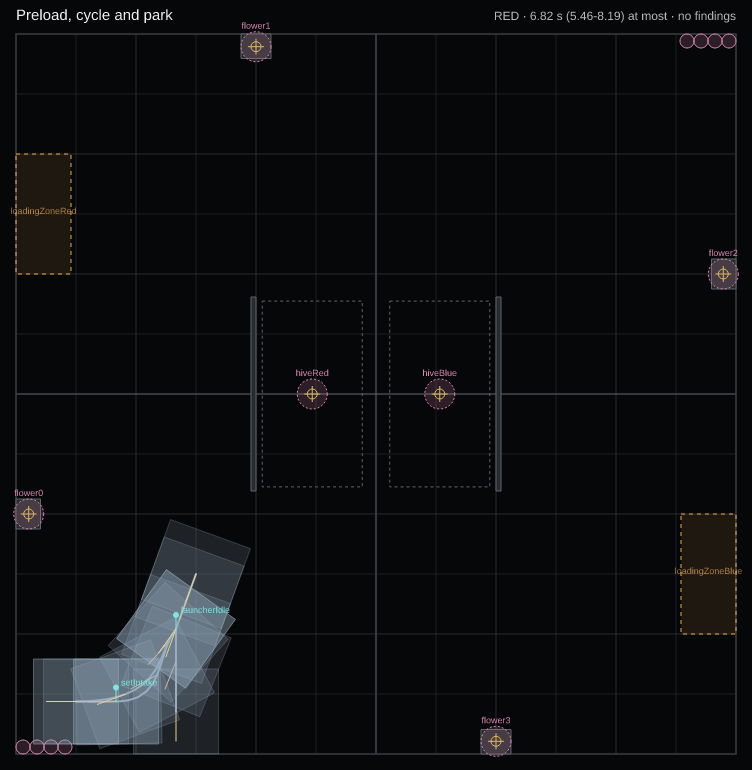
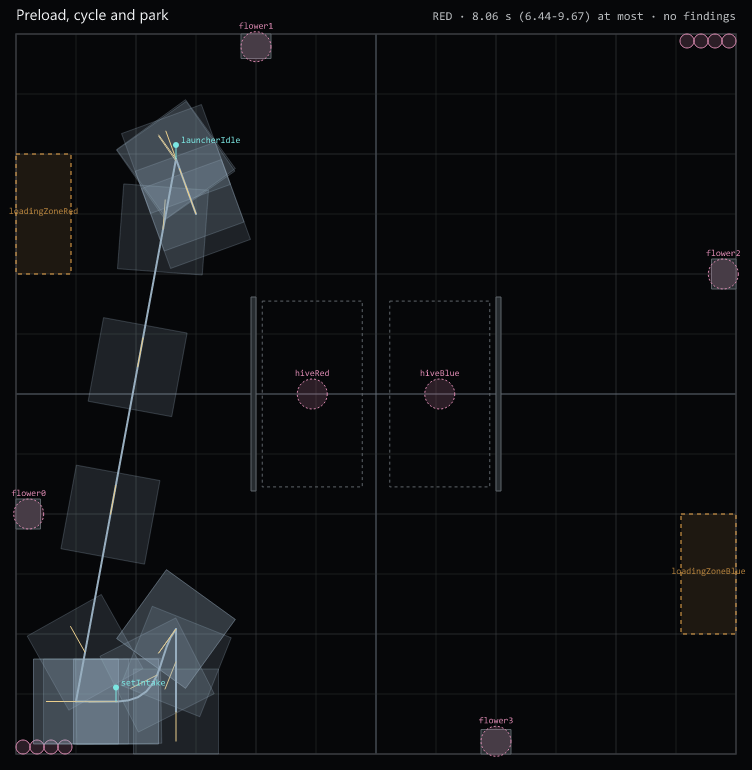
fix(auto): take the second shot from north of the tipped hive
The first shot tips the RED hive, so its up cell faces north and the old second shot from the south spot is no longer a legal approach (Zenith 0.1.2 LEGAL_APPROACH). The second shot now comes from shootNorth, the south shoot spot mirrored north of the hive, and the robot parks north of the hive. The auto is saved as formatVersion 4.

diff --git a/TeamCode/src/main/java/org/firstinspires/ftc/teamcode/zenith/PreloadCycleParkGenerated.java b/TeamCode/src/main/java/org/firstinspires/ftc/teamcode/zenith/PreloadCycleParkGenerated.java
@@ -1,4 +1,4 @@
-/** GENERATED by zenith from autos/preload-cycle-park.auto.json (sha 5347ea3d). Do not edit; edit the file. */
+/** GENERATED by zenith from autos/preload-cycle-park.auto.json (sha 5821cb0c). Do not edit; edit the file. */
 
 package org.firstinspires.ftc.teamcode.zenith;
 
@@ -23,7 +23,7 @@ import org.horizon36596.zenith.solverslib.RobotTimeout;
 import org.horizon36596.zenith.solverslib.WaitRobotTime;
 
 /**
- * GENERATED by zenith from autos/preload-cycle-park.auto.json (sha 5347ea3d). Do not edit; edit the file.
+ * GENERATED by zenith from autos/preload-cycle-park.auto.json (sha 5821cb0c). Do not edit; edit the file.
  *
  * Reads as the plan: one private method per step, called in file order from buildRoutine().
  * Abstract, and never referenced by an {@code @Autonomous} OpMode; {@code zenith deploy} writes the
@@ -44,7 +44,7 @@ public abstract class PreloadCycleParkGenerated extends AutoFromFile {
             step("toGarden", stepToGarden()),
             step("sweepGarden", stepSweepGarden()),
             step("stopIntake", stepStopIntake()),
-            step("backToShoot", stepBackToShoot()),
+            step("toShootNorth", stepToShootNorth()),
             step("shootCollected", stepShootCollected()),
             step("park", stepPark())
         );
@@ -55,7 +55,7 @@ public abstract class PreloadCycleParkGenerated extends AutoFromFile {
     }
 
     private Command stepToShoot() {
-        Path seg0 = Paths.line(Poses.toPedro(alliance(pose(-40.0, -63.5, -1.5708)) /* ref: start */), Poses.toPedro(alliance(pose(-40.0, -47.0, -2.1967)) /* ref: shoot */)).linear(headingRad(-1.5708), headingRad(-1.5708) + turnRad(-0.6259));
+        Path seg0 = Paths.line(Poses.toPedro(alliance(pose(-40.0, -63.5, -1.5708)) /* ref: start */), Poses.toPedro(alliance(pose(-40.0, -47.0, -2.1967)) /* ref: shootSouth */)).linear(headingRad(-1.5708), headingRad(-1.5708) + turnRad(-0.6259));
         Path path = seg0;
         Command drive = followPath(path, defaultSpeedFraction());
         return drive;
@@ -79,31 +79,34 @@ public abstract class PreloadCycleParkGenerated extends AutoFromFile {
 
     private Command stepSweepGarden() {
         // Starts from "current": built when the step starts, from where the robot is then.
-        return DeferredPath.of("sweepGarden", this, from -> stepSweepGardenFrom(from), NamedCommands.build("setIntake", Args.of("side", "FRONT", "state", "FORWARD"), this));
+        java.util.function.BooleanSupplier endCondition = NamedCommands.condition("hopperFull");
+        return DeferredPath.of("sweepGarden", this, from -> stepSweepGardenFrom(from, endCondition), NamedCommands.build("setIntake", Args.of("side", "FRONT", "state", "FORWARD"), this));
     }
 
-    private Command stepSweepGardenFrom(Pose2d from) {
+    private Command stepSweepGardenFrom(Pose2d from, java.util.function.BooleanSupplier endCondition) {
         Path seg0 = Paths.line(Poses.toPedro(from), Poses.toPedro(alliance(pose(-60.0, -61.5, 3.1416)) /* ref: intakeEnd */)).tangent();
         Path path = seg0;
         Command drive = followPath(path, 0.4);
-        drive = Parallel.race(drive, new WaitUntilCommand(NamedCommands.condition("hopperFull")));
         double[] segmentLengthsIn = { 8.0 };
         java.util.List<PathMarkers.Marker> markers = new java.util.ArrayList<PathMarkers.Marker>();
         markers.add(new PathMarkers.Marker(0.0, NamedCommands.build("setIntake", Args.of("side", "FRONT", "state", "FORWARD"), this)));
-        return PathMarkers.wrap(drive, segmentLengthsIn, markers, this);
+        drive = PathMarkers.wrap(drive, segmentLengthsIn, markers, this);
+        drive = Parallel.race(drive, new WaitUntilCommand(endCondition));
+        return drive;
     }
 
     private Command stepStopIntake() {
         return NamedCommands.build("setIntake", Args.of("side", "FRONT", "state", "STOP"), this);
     }
 
-    private Command stepBackToShoot() {
+    private Command stepToShootNorth() {
         // Starts from "current": built when the step starts, from where the robot is then.
-        return DeferredPath.of("backToShoot", this, from -> stepBackToShootFrom(from));
+        return DeferredPath.of("toShootNorth", this, from -> stepToShootNorthFrom(from));
     }
 
-    private Command stepBackToShootFrom(Pose2d from) {
-        Path seg0 = Paths.curve(Poses.toPedro(from), Poses.toPedro(alliance(pose(-42.0, -61.5, 0.0))), Poses.toPedro(alliance(pose(-44.0, -52.0, 0.0))), Poses.toPedro(alliance(pose(-40.0, -47.0, -2.1967)) /* ref: shoot */)).linear(headingRad(-3.1416), headingRad(-3.1416) + turnRad(0.9449));
+    private Command stepToShootNorthFrom(Pose2d from) {
+        // The lengths, marker distances and heading splits below are the planned path's; the runtime measures the live one.
+        Path seg0 = Paths.line(Poses.toPedro(from), Poses.toPedro(alliance(pose(-40.0, 47.0, 2.1967)) /* ref: shootNorth */)).heading(com.pedropathing.paths.interpolator.Interpolator.piecewise().until(0.15, (curve, t) -> headingRad(3.1416) + turnRad(-1.7531 * Math.min(1, Math.max(0, (t - 0.0) / 0.15)))).until(0.85, com.pedropathing.paths.interpolator.Interpolator.tangent).until(1.0, (curve, t) -> headingRad(1.3885) + turnRad(0.8082 * Math.min(1, Math.max(0, (t - 0.85) / 0.15)))));
         Path path = seg0;
         Command drive = followPath(path, defaultSpeedFraction());
         return drive;
@@ -119,7 +122,7 @@ public abstract class PreloadCycleParkGenerated extends AutoFromFile {
     }
 
     private Command stepParkFrom(Pose2d from) {
-        Path seg0 = Paths.line(Poses.toPedro(from), Poses.toPedro(alliance(pose(-36.0, -36.0, -1.9196)) /* ref: park */)).reverseTangent();
+        Path seg0 = Paths.line(Poses.toPedro(from), Poses.toPedro(alliance(pose(-36.0, 36.0, 1.9196)) /* ref: park */)).reverseTangent();
         Path path = seg0;
         Command drive = followPath(path, defaultSpeedFraction());
         double[] segmentLengthsIn = { 11.7047 };

diff --git a/TeamCode/src/test/java/org/firstinspires/ftc/teamcode/zenith/PreloadCycleParkAutoTest.java b/TeamCode/src/test/java/org/firstinspires/ftc/teamcode/zenith/PreloadCycleParkAutoTest.java
@@ -92,7 +92,7 @@ class PreloadCycleParkAutoTest {
 
         assertTrue(tookS < AUTO_PERIOD_S, "took " + tookS + " s");
         assertEquals(Arrays.asList("toShoot", "shootPreload", "toGarden", "sweepGarden", "stopIntake",
-                "backToShoot", "shootCollected", "park"), auto.startedSteps);
+                "toShootNorth", "shootCollected", "park"), auto.startedSteps);
         assertEquals(IntakeSubsystem.State.STOP, intake.frontState());
         assertFalse(launcher.ready(), "the park marker drops the launcher to idle");
     }

diff --git a/README.md b/README.md
@@ -18,9 +18,11 @@ turret. It follows paths with Pedro Pathing v3 and runs its commands on SolversL
 reason, and so are the constants in the Java. Measure your own robot before you copy any of them.
 
 The one auto, `preload-cycle-park`, starts against the audience wall in RED's half. It launches the
-four preloaded pollen, collects four more from the RED garden in one intake pass, launches those, and
-parks. Zenith estimates it at 6.8 s of the 30 s autonomous period. When it ends, the Driver Station
-selects the **Driver Control** TeleOp, which drives the same subsystems by hand.
+four preloaded pollen from south of the RED hive, which tips the hive so its up cell faces north. It
+then collects four more from the RED garden in one intake pass, drives up the west side to launch
+those from north of the hive, and parks. Zenith estimates it at 8.1 s of the 30 s autonomous period.
+When it ends, the Driver Station selects the **Driver Control** TeleOp, which drives the same
+subsystems by hand.
 
 ## How this repository is laid out
 
